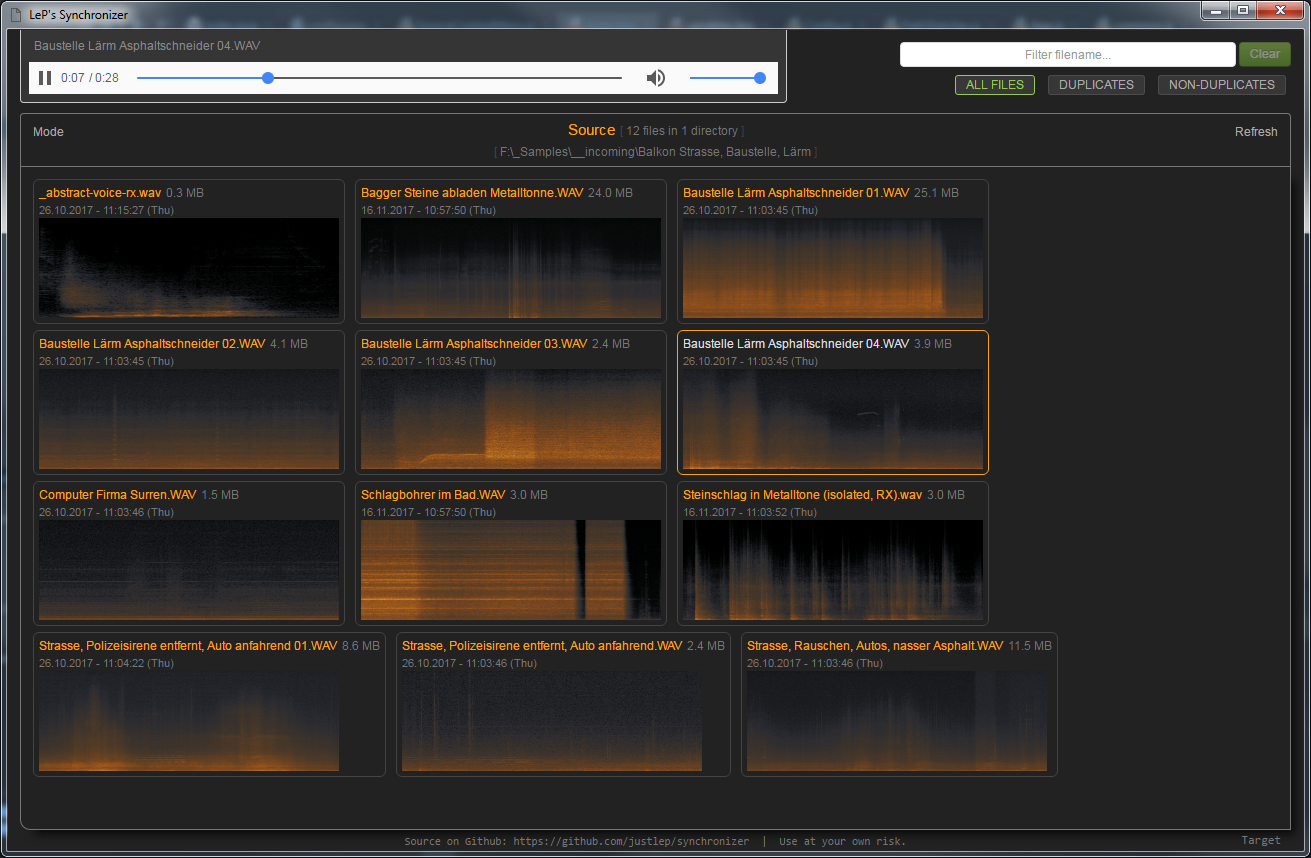
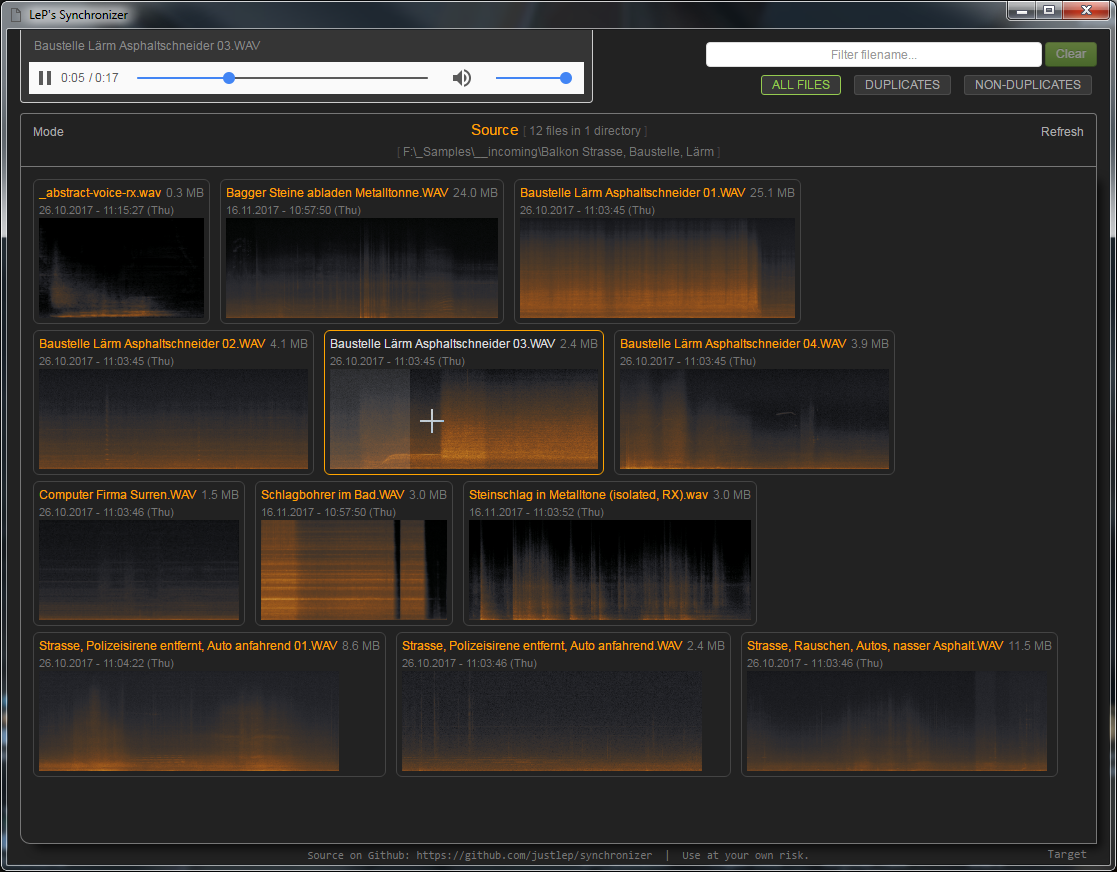
spectrogram clicks change play position

Changed region(s): [[0.0, 0.0, 1.0, 1.0], [0.2739, 0.9697, 0.7305, 1.0]]

diff --git a/src/js/App.js b/src/js/App.js
@@ -33,6 +33,8 @@ let {ko, _, Helper, $} = require('./common'),
 function App() {
     let self = this,
         audioElement = $('audio:first')[0],
+        audioDuration = ko.observable(0),
+        audioPositionInSeconds = ko.observable(0),
         HANDLERS = {
             FILE_DRAG_START: (e) => {
                 let dt = e.originalEvent.dataTransfer,
@@ -130,6 +132,13 @@ function App() {
                 } else if (e.ctrlKey) {
                     self.source.toggleSelectFileItem(clickedFileItem);
                     skipFilePlaying = !self.source.isFileItemSelected(clickedFileItem);
+                } else if (clickedFileItem.isAudioFile && this.isFilePlaying(clickedFileItem) && clickedFileItem.spectrogram()) {
+                    let offsetX = e.offsetX || 0,
+                        target = (e.target.className === 'spectro__clickzone') && e.target,
+                        percentage = target ? (100 * offsetX / $(target).width()) : 0;
+
+                    this.audioPositionInPercent(percentage);
+                    return;
                 } else {
                     self.source.selectFileItem(clickedFileItem);
                 }
@@ -297,6 +306,34 @@ function App() {
 
     this.onSourceFileRightClicked = HANDLERS.SOURCE_FILE_RIGHTCLICK;
 
+    this.audioPositionInPercent = ko.computed({
+        read: ko.pureComputed(() => {
+            let duration = audioDuration();
+            return duration ? Math.floor(100 * audioPositionInSeconds() / duration) : 0;
+        }),
+        write: (percent) => {
+            let duration = audioDuration();
+            audioElement.currentTime = Math.min(duration * percent / 100, duration);
+            if (!audioElement.ended) {
+                audioElement.play();
+            }
+        }
+    });
+
+    this.isFilePlaying = (file) => {
+        let fp = file && this.filePlaying();
+        return fp && fp.id === file.id;
+    };
+
+    this.getBgImageStyleForPath = (path) => {
+        if (!path) {
+            return '';
+        }
+        let style = `background-image: url('file:///${path.replace(/[\\]/g, '/')}')`;
+        // console.warn('x: %o, path: %s, url=%s', x, path, url);
+        return style;
+    };
+
     this.switchListMode = function() {
         self.config.floatingList(!self.config.floatingList());
     };
@@ -381,6 +418,14 @@ function App() {
                 // so what (can happen on invalid files
             }
         }
+    };
+
+    audioElement.ondurationchange = (e) => {
+        audioDuration(audioElement.duration || 0);
+    };
+
+    audioElement.ontimeupdate = (e) => {
+        audioPositionInSeconds(audioElement.currentTime || 0);
     };
 
     initOnce();

diff --git a/src/less/styles.less b/src/less/styles.less
@@ -107,12 +107,35 @@ label, audio {
     display: block;
 }
 
-img.spectro {
-    max-height: 100px;
+.spectro {
+    height: 100px;
     width: 100%;
+    background: transparent none 0 0 no-repeat;
+    background-clip: content-box;
+    background-size: 100% 100%;
+    position: relative;
 
     .asFloatingList & {
         max-width: 300px;
+    }
+
+    &__progress {
+        height: 100%;
+        background: rgba(255,255,255,0.1);
+        overflow: hidden;
+        position: absolute;
+        left: 0;
+        top: 0;
+    }
+    &__clickzone {
+        height: 100%;
+        width: 100%;
+        background: transparent;
+        overflow: hidden;
+        position: absolute;
+        left: 0;
+        top: 0;
+        cursor: crosshair;
     }
 }
 
